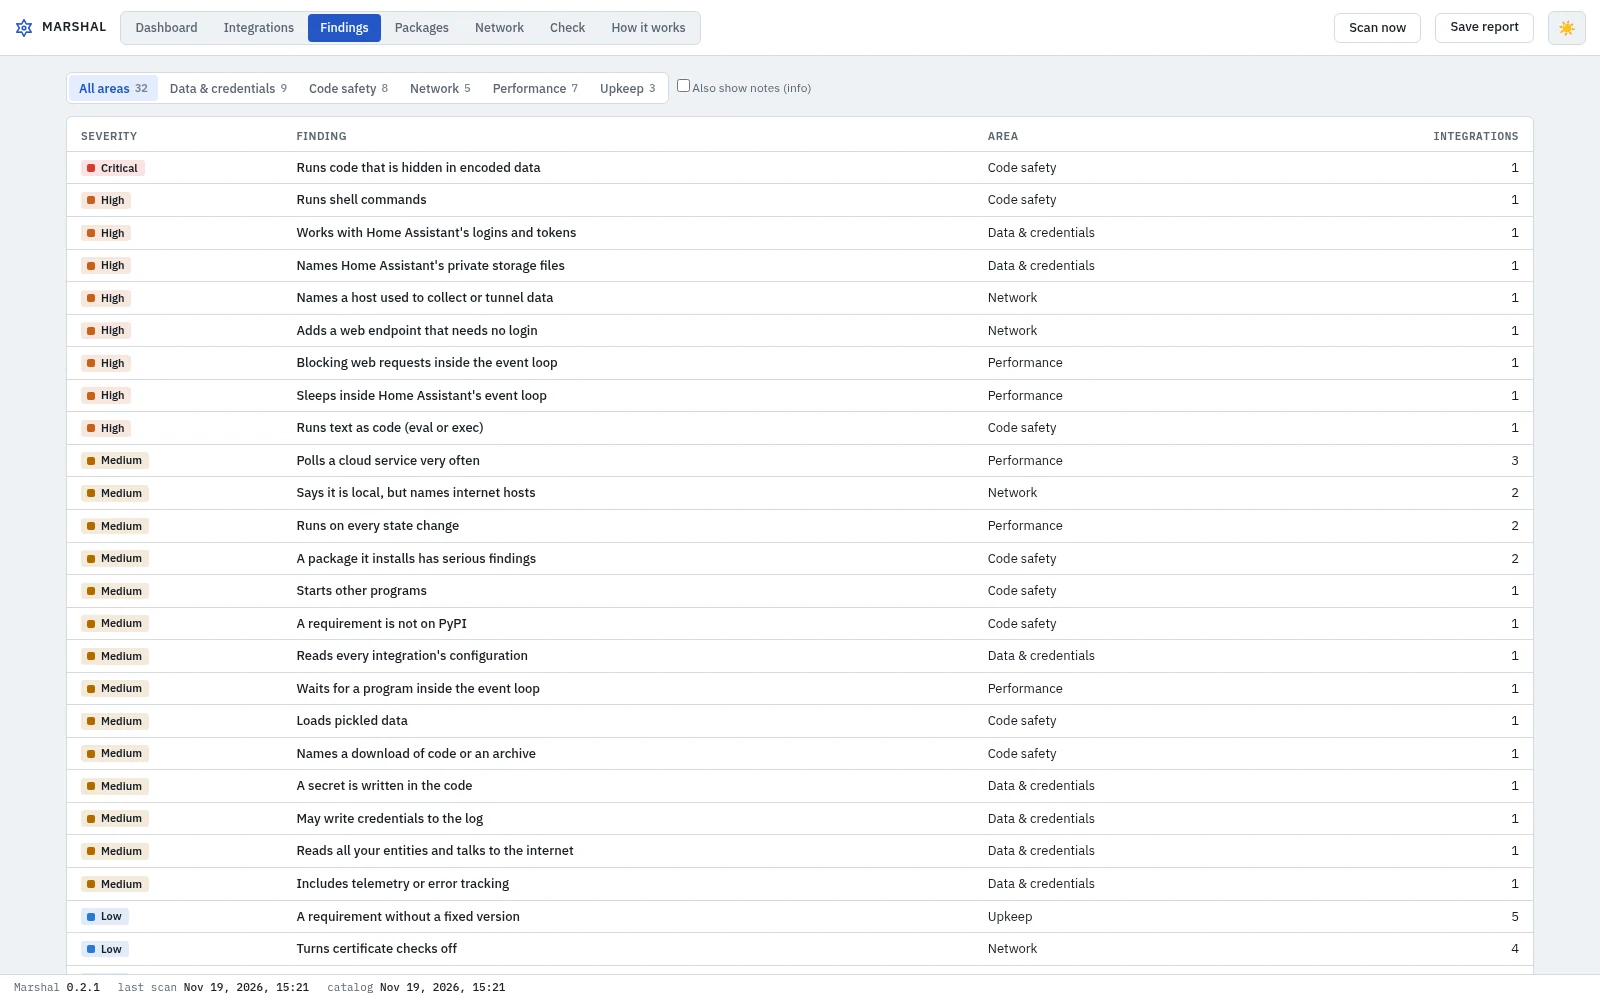
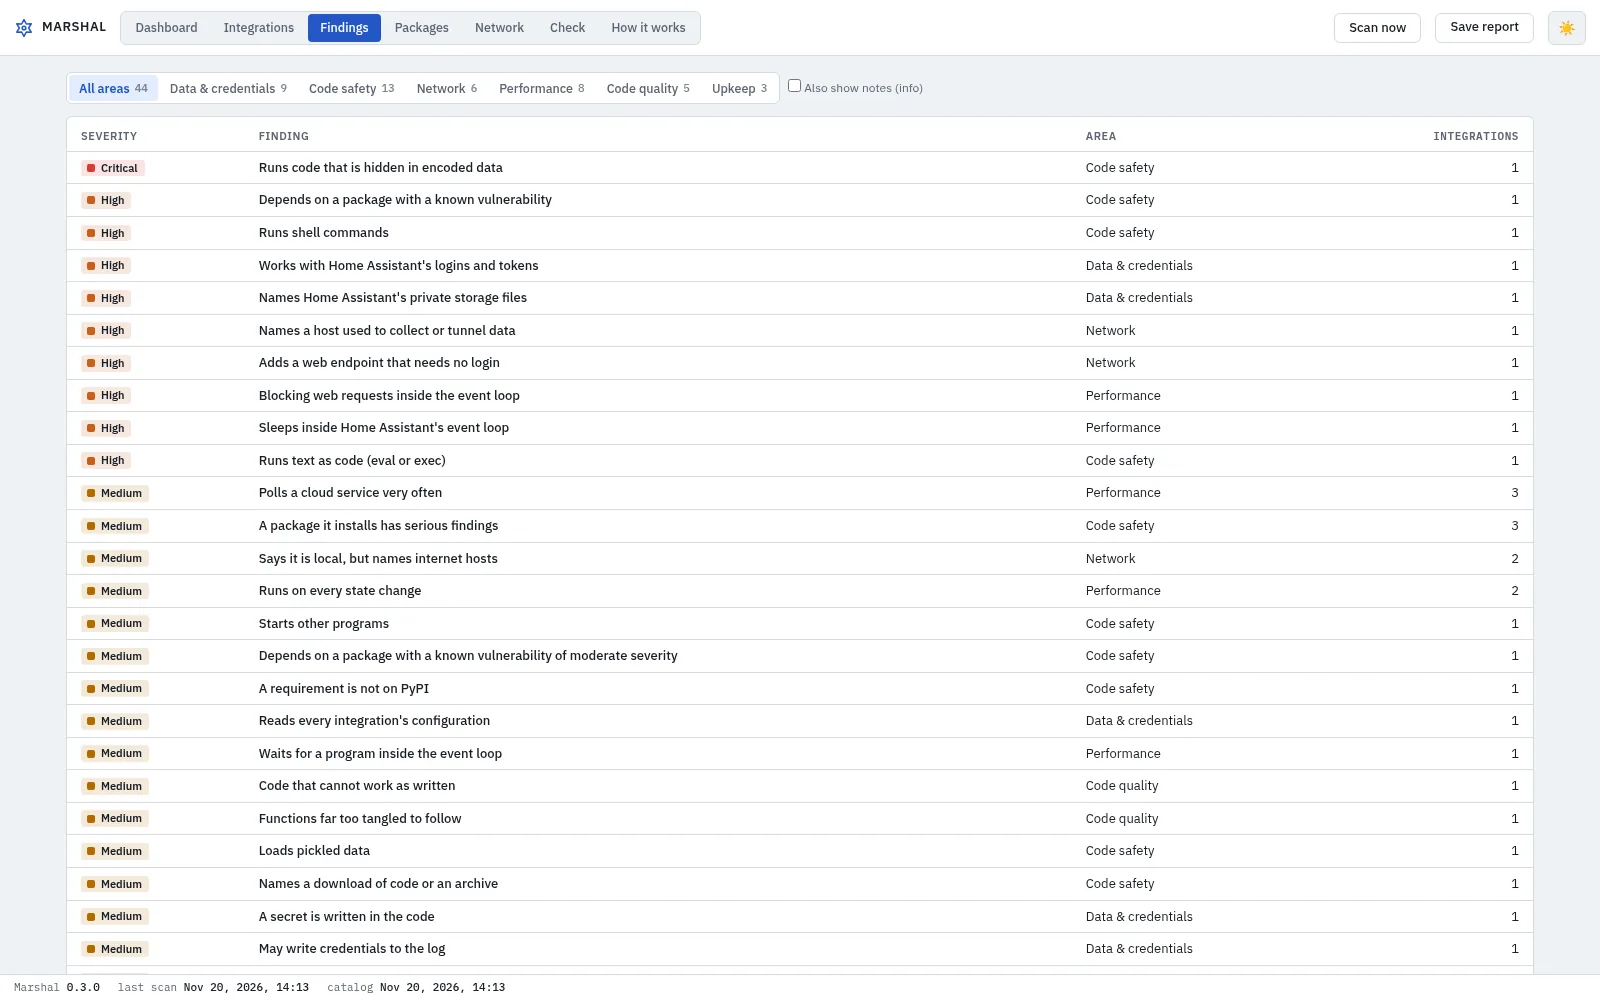
Marshal: new screenshots with the 0.3.0 areas; SDRadio: aircraft photos in the README

diff --git a/app-sdradio/README.md b/app-sdradio/README.md
@@ -91,7 +91,7 @@ satellite passes, and with a HackRF weather fax charts and analog FPV video.
 - 🌊 **Spectrum and waterfall** — Live, with your stored channels labelled; click to tune, drag to move, scroll to step; zoom from the whole band (swept) to 50 kHz
 - 🎧 **Listen in the browser** — AM, NFM, WFM, USB, LSB, CW and DSB, demodulated in the app; AGC and noise blanker
 - 🔊 **On a speaker** — What the radio plays as an MP3 stream for a media player or VLC (off by default)
-- 📟 **Modes** — The radio set up for pagers (POCSAG and FLEX, with multimon-ng), sensors on 433/868 MHz (weather stations, thermometers, meters, with rtl_433), aircraft (ADS-B with dump1090), ships (AIS), APRS stations, radiosondes (weather balloons, with rs1729's decoders) and FT8/FT4 stations (ft8_lib) on a map, ACARS and VDL2 messages (dumpvdl2), DMR, D-STAR, YSF, NXDN and P25 calls heard as speech (DSD-FME), SSTV pictures, DAB+ digital radio (welle-cli), satellite passes followed with Doppler correction (ISS, SO-50, Meteor), and with the HackRF weather fax charts and analog FPV video, each with its own view and Home Assistant events or sensors
+- 📟 **Modes** — The radio set up for pagers (POCSAG and FLEX, with multimon-ng), sensors on 433/868 MHz (weather stations, thermometers, meters, with rtl_433), aircraft (ADS-B with dump1090; a photo of the one you pick from planespotters.net, off by default), ships (AIS), APRS stations, radiosondes (weather balloons, with rs1729's decoders) and FT8/FT4 stations (ft8_lib) on a map, ACARS and VDL2 messages (dumpvdl2), DMR, D-STAR, YSF, NXDN and P25 calls heard as speech (DSD-FME), SSTV pictures, DAB+ digital radio (welle-cli), satellite passes followed with Doppler correction (ISS, SO-50, Meteor), and with the HackRF weather fax charts and analog FPV video, each with its own view and Home Assistant events or sensors
 - 🔔 **Tones** — On NFM: the CTCSS tone or DCS code under a transmission, and DTMF digits
 - 📝 **RDS** — On FM broadcast: the station's name, its radio text, and the artist and title when the station sends them
 - 🔍 **Scanning** — The stored channels or the band you are in; HOLD, lock-out and priority channels; every transmission logged, and unknown signals listed as new finds

diff --git a/app-marshal/README.md b/app-marshal/README.md
@@ -16,7 +16,8 @@ Keeps watch over the custom integrations you install from the Home Assistant Mar
 integration runs inside Home Assistant with all of its rights, and the Marketplace lists them without
 testing or auditing them. Marshal reads the code of every integration you have installed, without
 running any of it, and shows what deserves a second look: access to credentials and personal data,
-risky code, the internet hosts it names, and patterns that slow Home Assistant down. Each integration
+risky code, known vulnerabilities in what it installs, the internet hosts it names, patterns that slow
+Home Assistant down, and the quality of the code. Each integration
 gets a score and a grade, and they are ranked worst first.
 
 ![Dashboard: the average score and grade, findings by severity, integrations per grade, the score per area, the integrations to look at first and the most serious findings (light theme)](https://raw.githubusercontent.com/cyberjunky/home-assistant-apps/main/app-marshal/screenshots/dashboard-light.webp)
@@ -29,6 +30,12 @@ gets a score and a grade, and they are ranked worst first.
 
 **An integration** — each finding with what it means, the file, the line and the code
 ![An integration](https://raw.githubusercontent.com/cyberjunky/home-assistant-apps/main/app-marshal/screenshots/integration-dark.webp)
+
+**Known vulnerabilities** — each CVE in what an integration installs, how bad it is rated, and the version that fixes it
+![Known vulnerabilities](https://raw.githubusercontent.com/cyberjunky/home-assistant-apps/main/app-marshal/screenshots/vulnerabilities-light.webp)
+
+**Code quality** — what Ruff found, with the line: code that cannot work, likely mistakes, errors silently dropped
+![Code quality](https://raw.githubusercontent.com/cyberjunky/home-assistant-apps/main/app-marshal/screenshots/quality-light.webp)
 
 **Findings** — every check that found something, across all integrations
 ![Findings](https://raw.githubusercontent.com/cyberjunky/home-assistant-apps/main/app-marshal/screenshots/findings-light.webp)
